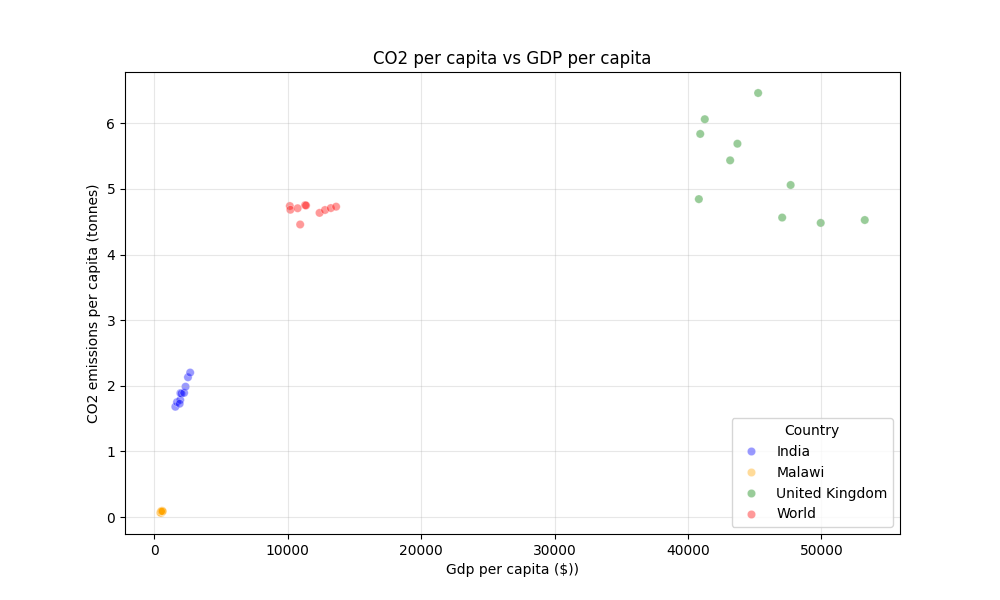
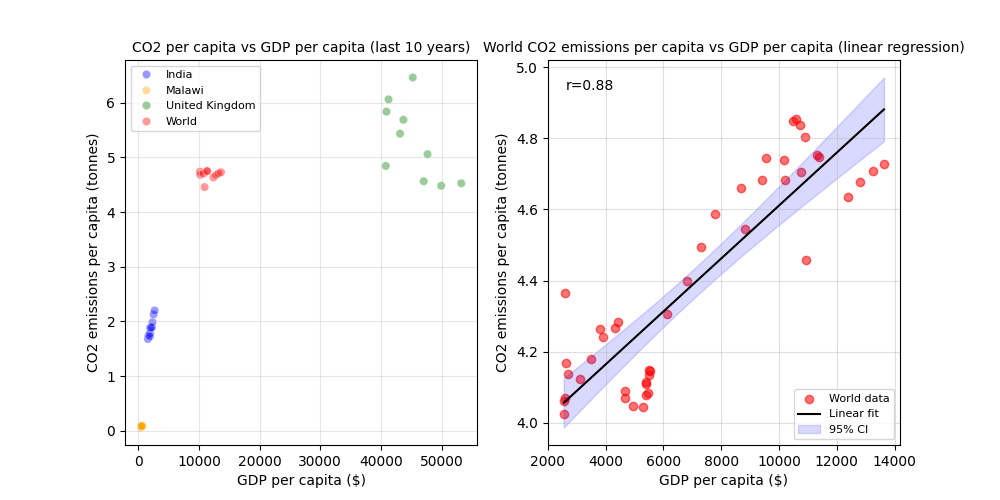
linear regression added

diff --git a/Figures/co2_emissions_gdp_per_capita.py b/Figures/co2_emissions_gdp_per_capita.py
@@ -1,15 +1,20 @@
 import seaborn as sns
 import matplotlib.pyplot as plt
 import pandas as pd
+from scipy.stats import pearsonr
+import statsmodels.api as sm
+import numpy as np
 import os
 
 dataset = pd.read_csv("analysis_dataset.csv")
+folder="Graphs"
+os.makedirs(folder,exist_ok=True)
 
 max_year=dataset["Year"].max()
 min_year=max_year-9
 filter=dataset[(dataset["Year"]>=min_year)&(dataset["Year"]<=max_year)]
 
-plt.figure(figsize=(10,6))
+fig,axes = plt.subplots(1,2,figsize=(10,5))
 
 ax = sns.scatterplot(
     data=filter,
@@ -24,20 +29,80 @@ ax = sns.scatterplot(
         "India":"blue",
         "Malawi":"orange",
     },
+    ax=axes[0],
 )
 
-plt.xlabel("Gdp per capita ($))")
-plt.ylabel("CO2 emissions per capita (tonnes)")
-plt.title("CO2 per capita vs GDP per capita")
-plt.legend(title="Country",loc="lower right")
+axes[0].set_xlabel("GDP per capita ($)")
+axes[0].set_ylabel("CO2 emissions per capita (tonnes)")
+axes[0].set_title("CO2 per capita vs GDP per capita (last 10 years)",fontsize=10)
+axes[0].legend(loc="best",
+               fontsize=8)
+axes[0].grid(True, alpha=0.3)
 
-folder="Graphs"
-os.makedirs(folder,exist_ok=True)
-plt.savefig(os.path.join(folder,"co2_emissions_gdp_per_capita.png"))
+world=dataset[dataset["Country Name"]=="World"].copy()
+x=world["GDP per capita"].values
+y=world["CO2 per capita (Trillions)"].values
 
-ax.spines["top"].set_visible(True)
-ax.spines["right"].set_visible(True)
-ax.grid(True,alpha=0.3)
+r,p=pearsonr(x,y)
+
+X=sm.add_constant(x)
+model=sm.OLS(y,X).fit()
+
+x_grid=np.linspace(x.min(),
+                   x.max(),
+                   200)
+X_grid=sm.add_constant(x_grid)
+
+prediction=model.get_prediction(X_grid)
+prediction_summary = prediction.summary_frame(alpha=0.05)
+y_hat=prediction_summary["mean"].values
+ci_lower=prediction_summary["mean_ci_lower"].values
+ci_upper=prediction_summary["mean_ci_upper"].values
+
+axes[1].scatter(x,
+                y,
+                color="red",
+                alpha=0.55,
+                label="World data"
+                )
+
+coeffs=np.polyfit(x,y,1)
+poly=np.poly1d(coeffs)
+x_line = np.linspace(x.min(),
+                     x.max(),
+                     100)
+
+axes[1].plot(x_line,
+             poly(x_line),
+             color="black",
+             label="Linear fit"
+             )
+axes[1].fill_between(
+    x_grid,
+    ci_lower,
+    ci_upper,
+    color="blue",
+    alpha=0.15,
+    label="95% CI"
+)
+axes[1].set_xlabel("GDP per capita ($)")
+axes[1].set_ylabel("CO2 emissions per capita (tonnes)")
+axes[1].set_title("World CO2 emissions per capita vs GDP per capita (linear regression)",fontsize=10)
+axes[1].grid(True, alpha=0.4)
+axes[1].legend(loc="best",
+               fontsize=8)
+
+axes[1].text(0.05,
+             0.95,
+             f"r={r:.2f}",
+             transform=axes[1].transAxes,
+             ha="left",
+             va="top")
+
+for ax in axes:
+    ax.spines["top"].set_visible(True)
+    ax.spines["right"].set_visible(True)
+
 plt.savefig(os.path.join(folder,"co2_emissions_gdp_per_capita.png"))
 plt.tight_layout()
 plt.show()
